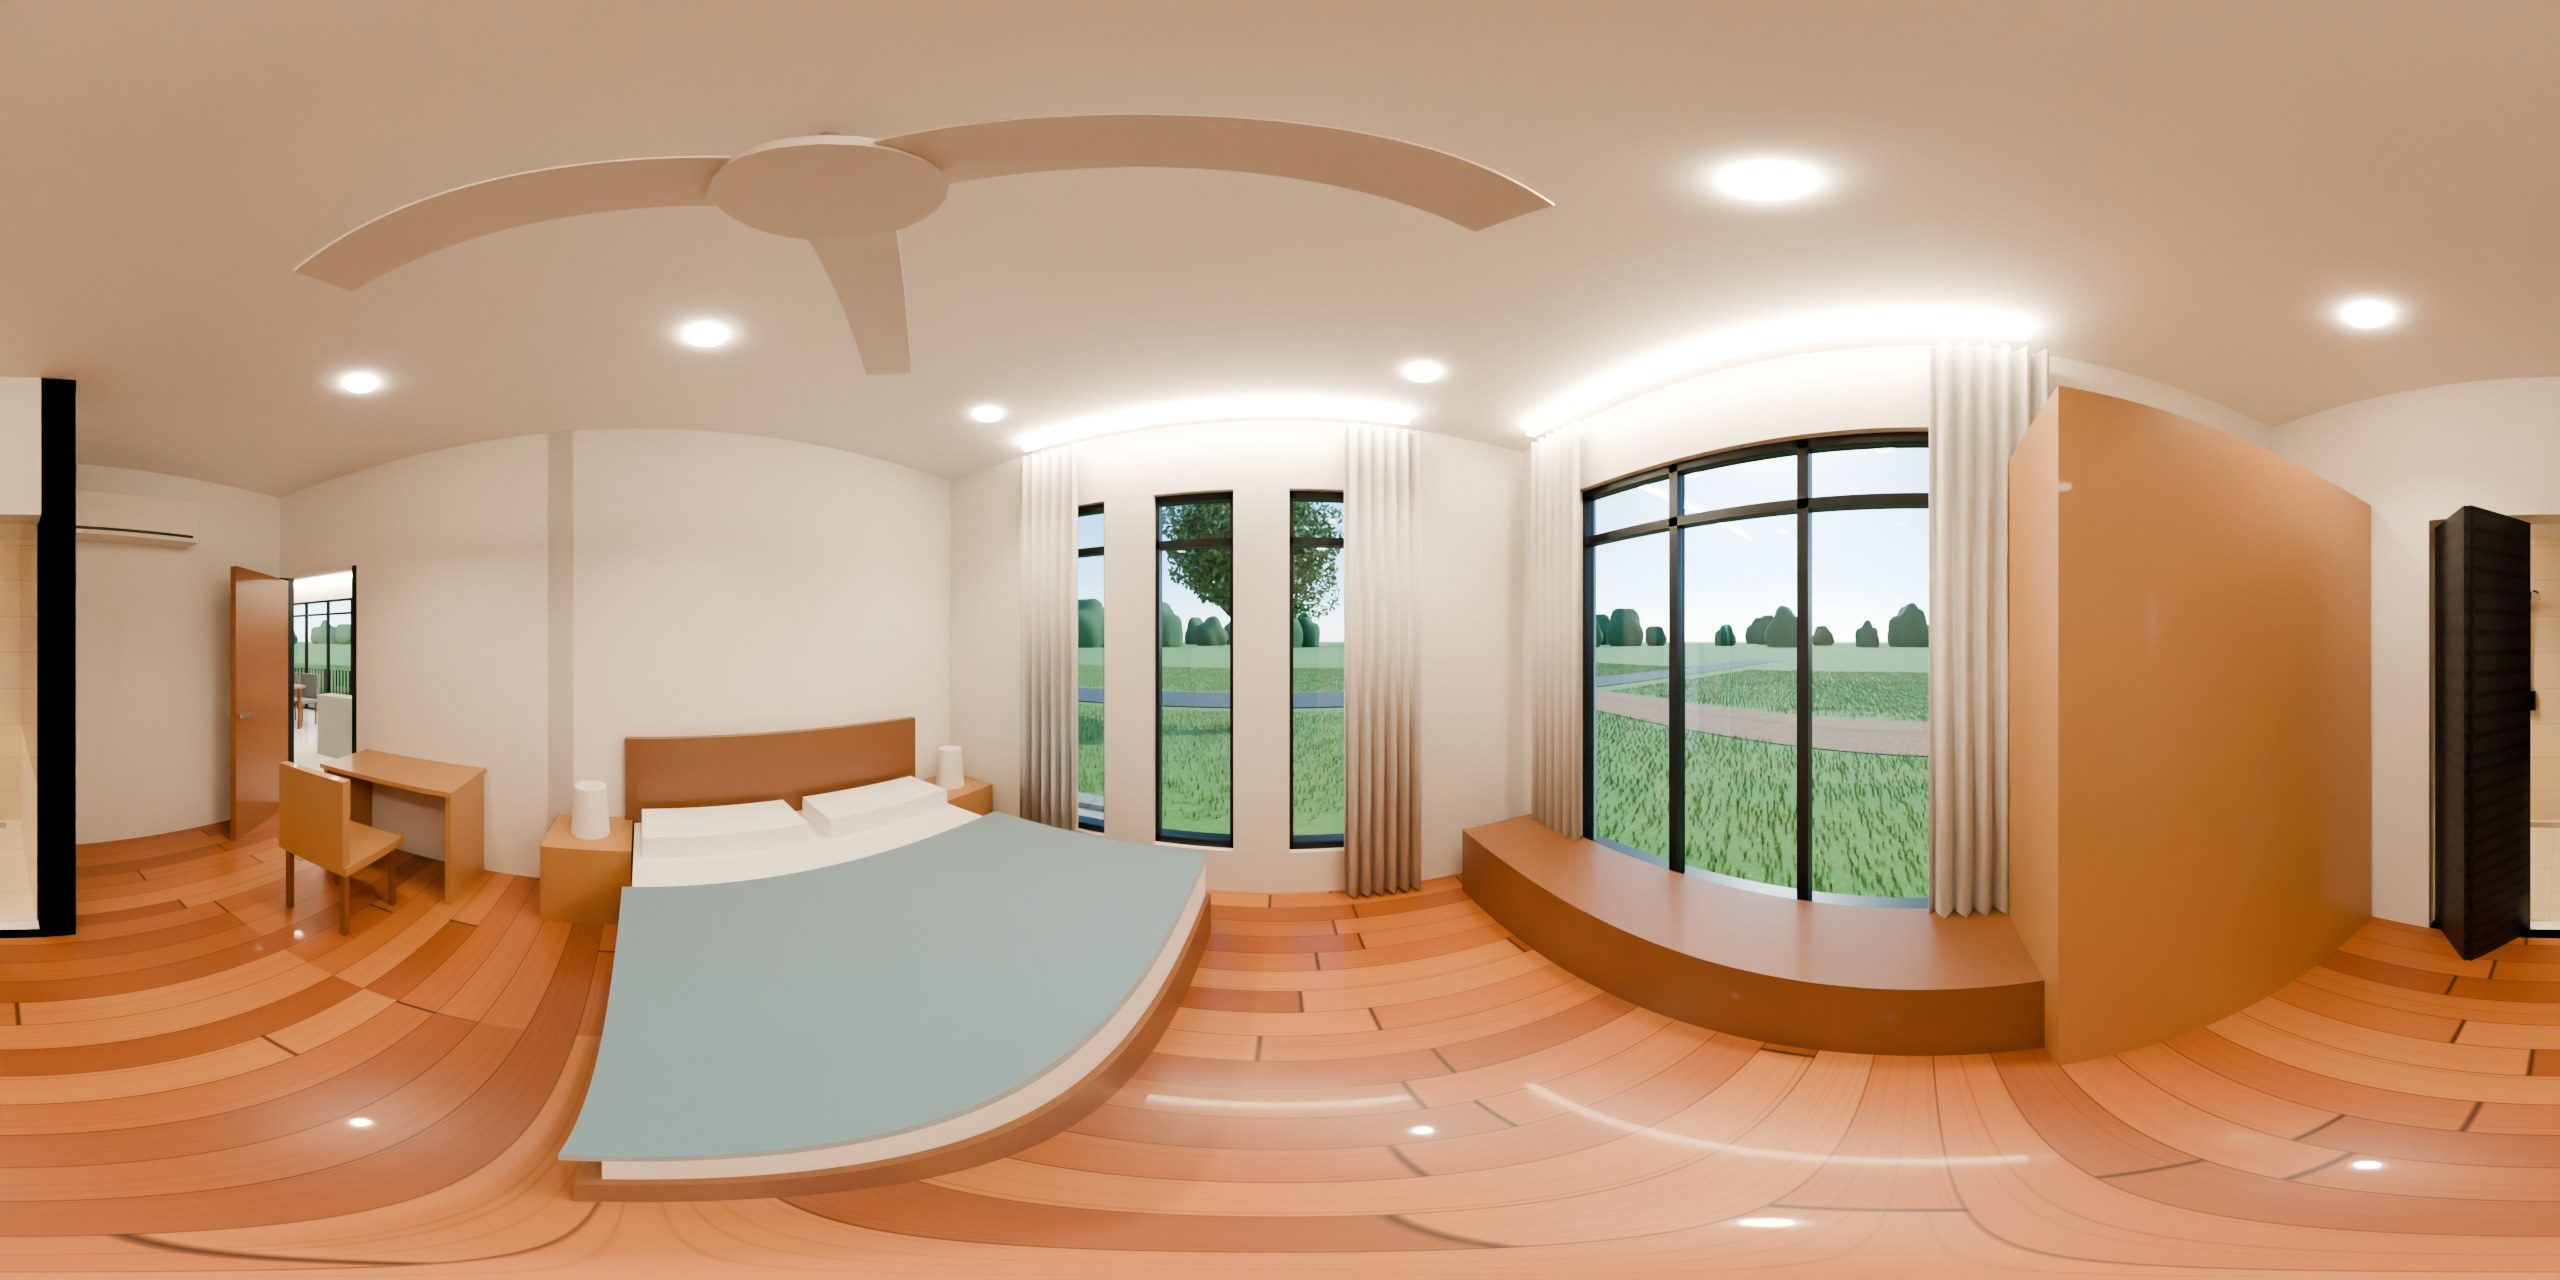
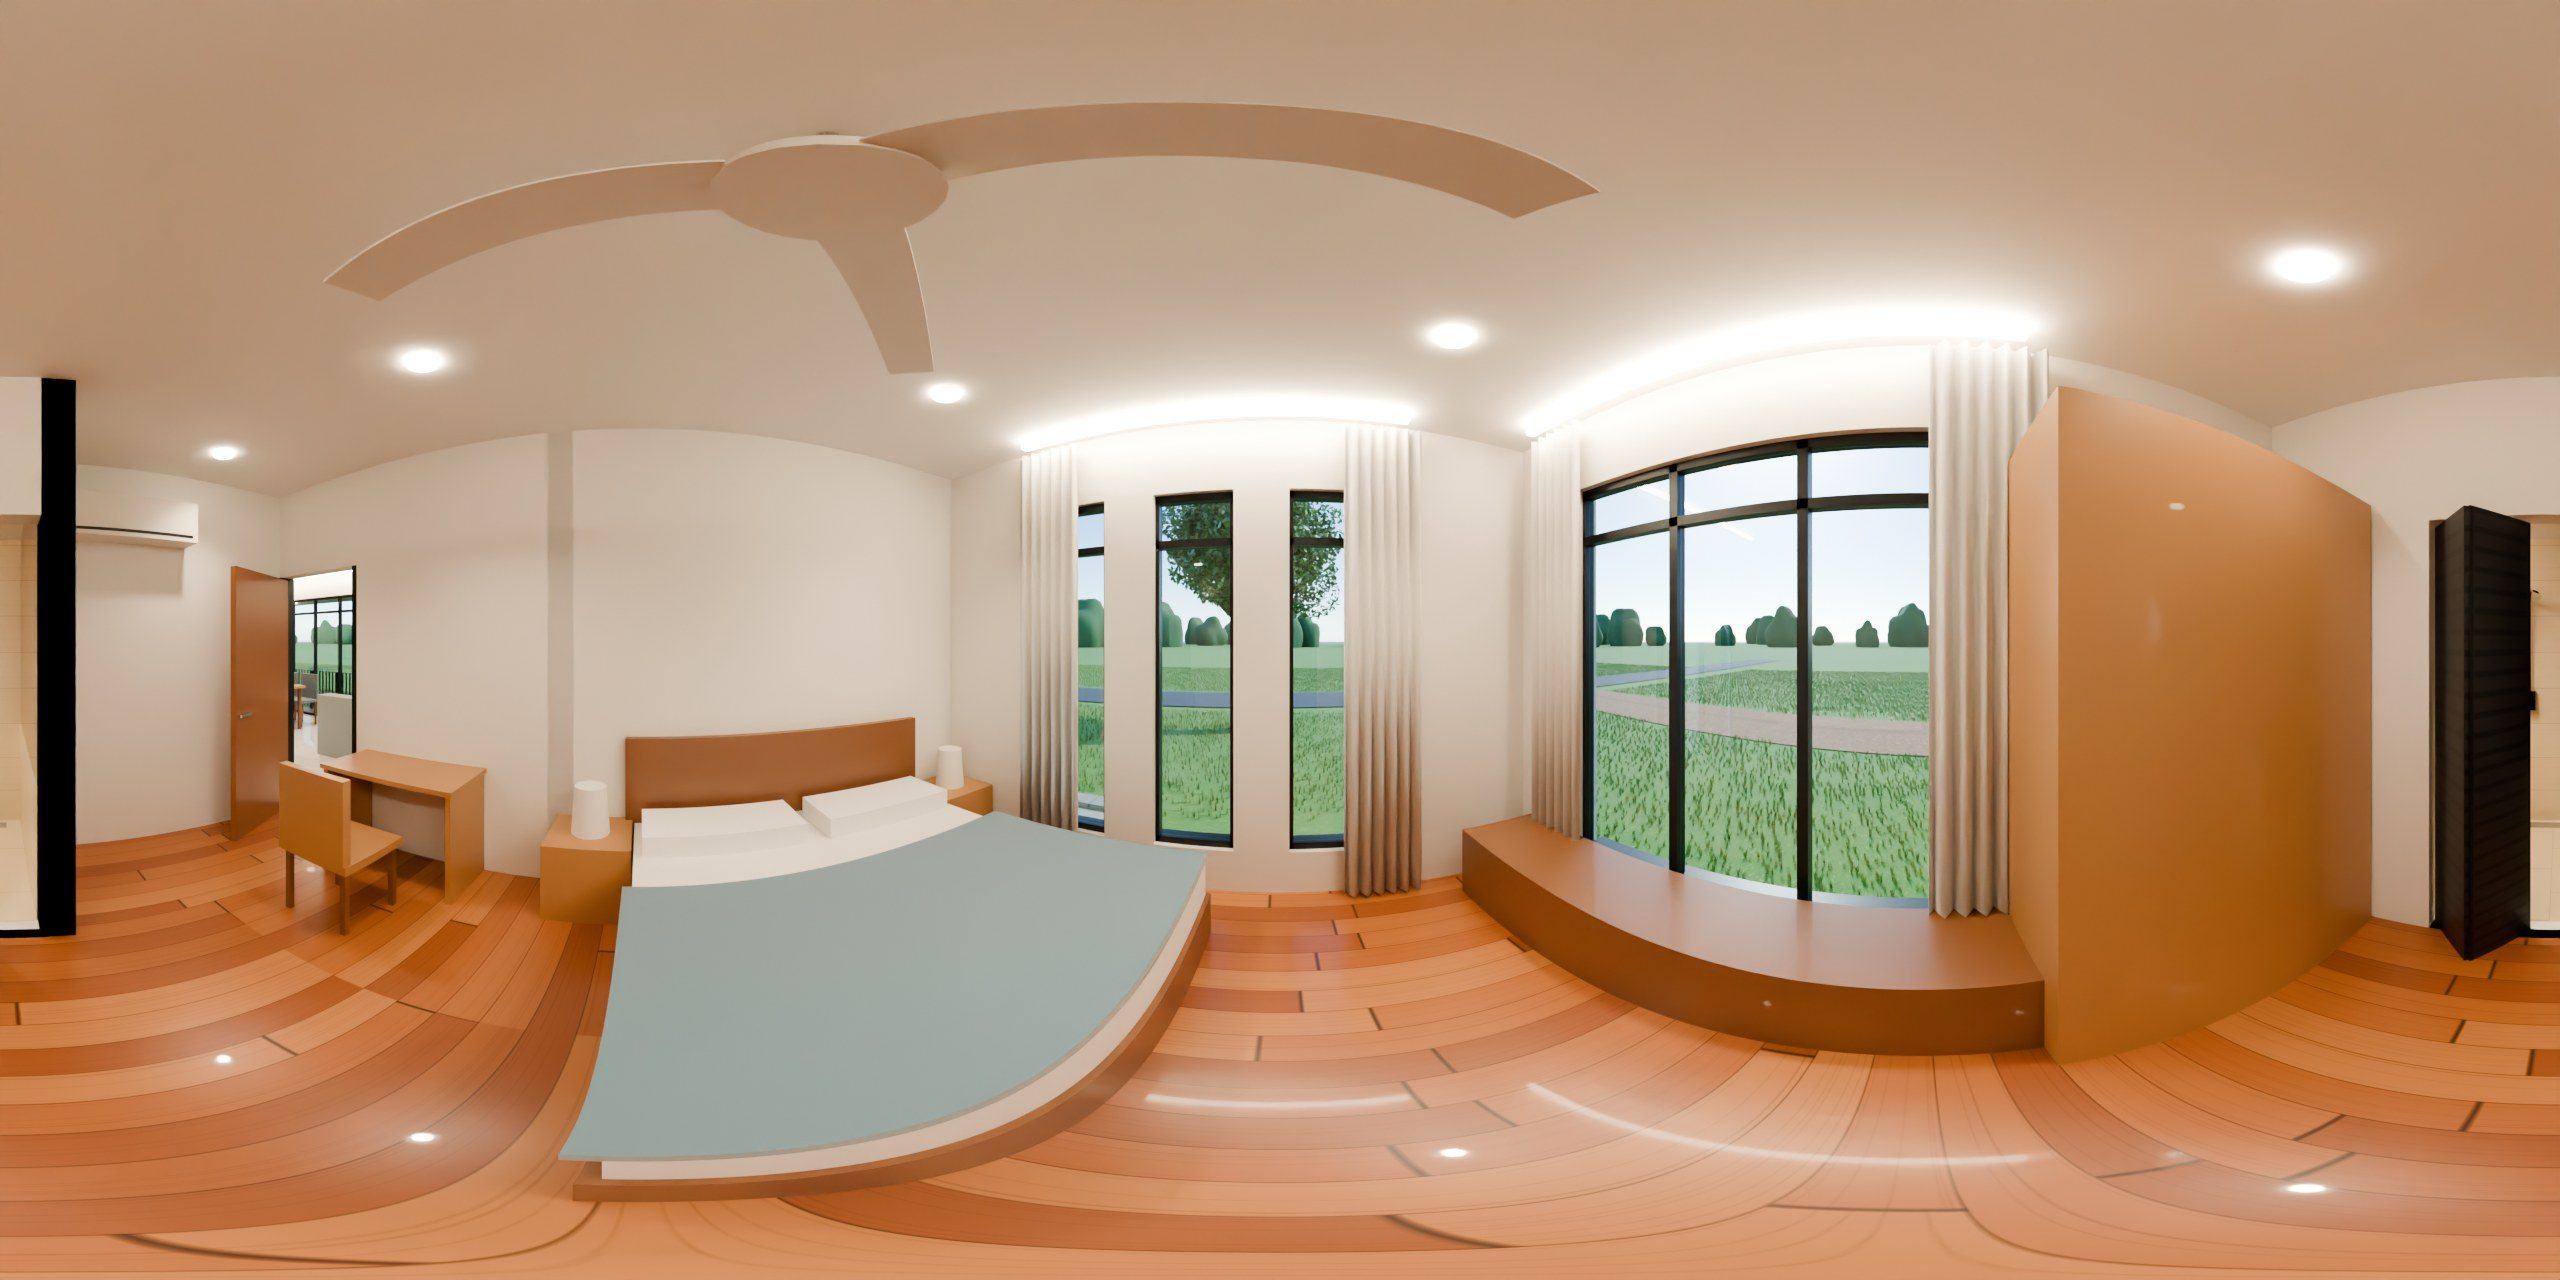
Panorama lanai dan Bilik 1 dijana semula; nota render README
Claude-Session: https://claude.ai/code/session_01NQyZTepj3HC9Ze83X4y1XQ

diff --git a/README.md b/README.md
@@ -88,5 +88,5 @@ Fail dimuatkan mengikut turutan `data → core → model → landskap → ui →
 - Soket dan suis (D9001) belum dimodelkan.
 - Jalan, ketinggian pokok, rumput dan barisan pokok jauh ialah konteks anggaran. Kedudukan pokok sedia ada, tangki air, tangki septik, kebuk pemeriksaan, sump dan perigi dibaca daripada M1001/M1002.
 - Render Cycles: geometri dan ukuran ikut model; warna bumbung/dinding ikut pilihan lalai (belum ditetapkan arkitek); bahan, perabot, langsir (di pelmet D4001), rumput, pokok dan langit ialah ilustrasi. Kedudukan matahari dikira untuk Kangar pada 23 Okt.
-- Render Galeri dan 360° dijana pada 23 Okt, sebelum W6 ditukar kepada 4 panel dan balkoni/GD1 dibetulkan. Gambar yang menunjukkan W6 atau GD1 perlu dijana semula dengan `alat/render/`.
+- Render Galeri dan 360° dijana semula pada 24 Okt selepas W6 (4 panel), balkoni/GD1 dan downlight D9001 dibetulkan. Pandangan udara dan Bilik Air 1 kekal daripada 23 Okt (tiada perubahan yang kelihatan).
 - Ini model visual, bukan lukisan pembinaan.
